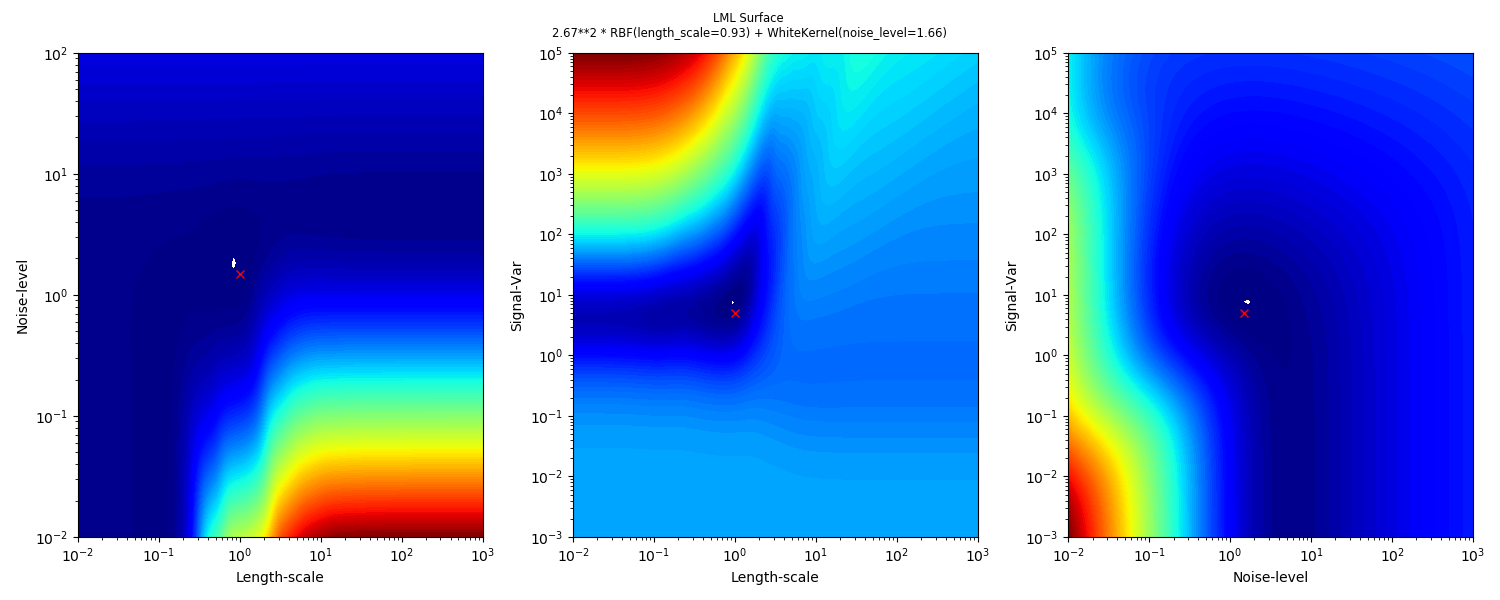
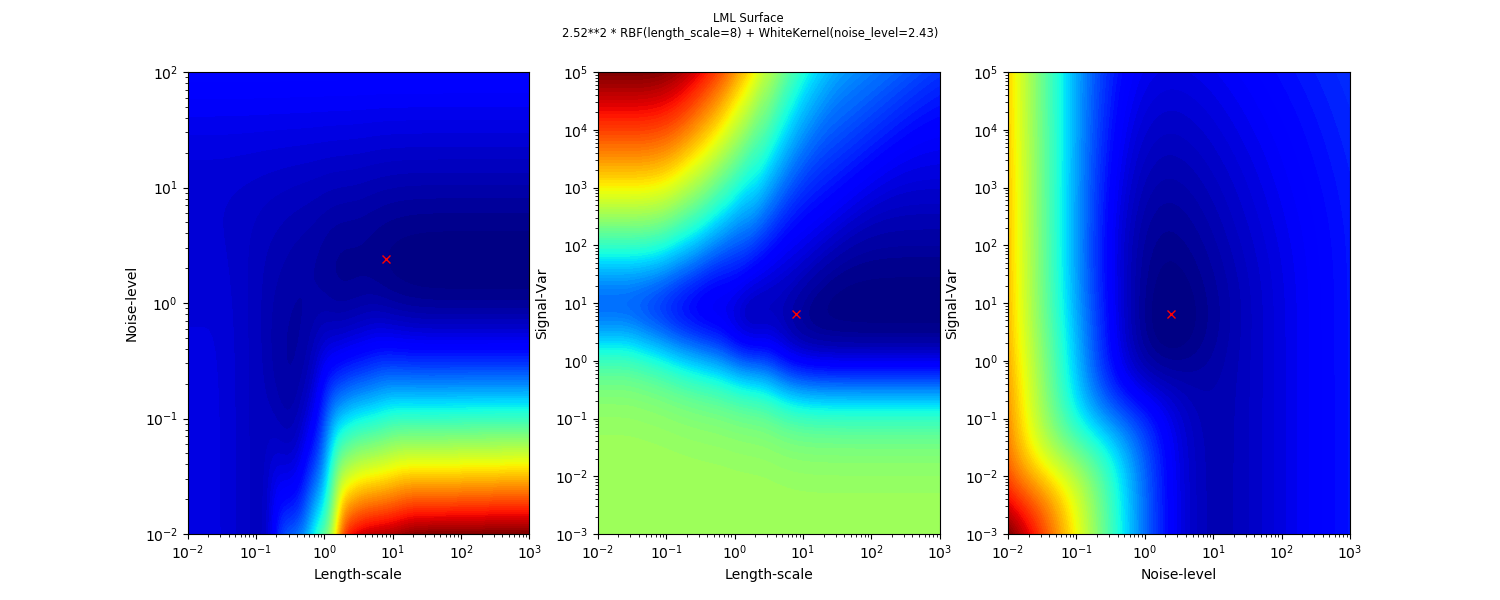
edits

diff --git a/GP/Hyperparameter Integration/gp_hyp_analysis.py b/GP/Hyperparameter Integration/gp_hyp_analysis.py
@@ -46,7 +46,7 @@ def generate_gp_training(X_all, f_all, n_train, noise_var, uniform):
     y = f + np.random.normal(0, scale=np.sqrt(noise_var), size=n_train)
     return X, y, X_star, f_star, train_index
 
-#---------------GP Framework----------------------------------------------
+#---------------------GP Framework---------------------------------------------
     
 def get_kernel(kernel_type, hyper_params):
     
@@ -145,7 +145,7 @@ def plot_noisy_data(X, y, X_star, f_star, title):
     plt.figure()
     plt.plot(X_star, f_star, "dodgerblue", lw=3, label="True f")
     plt.plot(X, y, 'ok', ms=3, alpha=0.5, label="Data")
-    plt.set_xlabel("X"); 
+    plt.set_xlabel("X") 
     plt.set_ylabel("The true f(x)") 
     plt.legend()
     plt.title(title, fontsize='x-small')
@@ -170,9 +170,9 @@ def plot_gp(X_star, f_star, X, y, post_mean, post_std, post_samples, title):
     
     plt.figure()
     if post_samples != []:
-          plt.plot(X_star, post_samples.T, color='orange', alpha=0.5)
+          plt.plot(X_star, post_samples.T, color='grey', alpha=0.2)
     plt.plot(X_star, f_star, "dodgerblue", lw=1.4, label="True f",alpha=0.7);
-    plt.plot(X, y, 'bx', ms=3, alpha=0.8, color='r');
+    plt.plot(X, y, 'ok', ms=3, alpha=0.5)
     plt.plot(X_star, post_mean, color='r', lw=2, label='Posterior mean')
     plt.fill_between(np.ravel(X_star), post_mean - 1.96*post_std, 
                      post_mean + 1.96*post_std, alpha=0.2, color='r',
@@ -284,8 +284,8 @@ if __name__ == "__main__":
     # Kernel Hyperparameters 
     
     sig_var_true = 5.0
-    lengthscale_true = 1.5
-    noise_var_true = 1.0
+    lengthscale_true = 1.0
+    noise_var_true = 0.5
     hyp = [sig_var_true, lengthscale_true, noise_var_true]
     cov = get_kernel('SE', [sig_var_true, lengthscale_true])
     hyp_string = get_kernel_hyp_string('SE', [sig_var_true, lengthscale_true, noise_var_true])
@@ -342,14 +342,13 @@ if __name__ == "__main__":
     post_samples = np.random.multivariate_normal(post_mean, post_cov, 10)
     rmse_ = rmse(post_mean, f_star)
     lpd_ = log_predictive_density(st.multivariate_normal.pdf(f_star, post_mean, post_cov, allow_singular=True))
-    title = 'GPR' + '\n' + str(gpr.kernel_) + '\n' + 'RMSE: ' + str(rmse_) + '\n' + 'LPD: ' + str(lpd_) 
-    plot_gp(X_star, f_star, X, y, post_mean, post_std, [], title)
-    #plot_kernel_matrix(post_cov,'')
-    
-    plot_lml_surface_3way(gpr, sig_var_true, lengthscale_true, noise_var_true)
-
+    title = 'GPR' + '\n' + str(gpr.kernel_) + '\n' + 'RMSE: ' + str(rmse_) + '\n' + 'LPD: ' + str(lpd_)     
     ml_deltas = np.round(np.exp(gpr.kernel_.theta), 3)
     ml_deltas_dict = {'lengthscale': ml_deltas[1], 'noise_var': ml_deltas[2], 'sig_var': ml_deltas[0]}
+    plot_lml_surface_3way(gpr, ml_deltas_dict['sig_var'], ml_deltas_dict['lengthscale'], ml_deltas_dict['noise_var'])
+
+    plot_gp(X_star, f_star, X, y, post_mean, post_std, [], title)
+
 
       #---------------------------------------------------------------------
           
@@ -397,12 +396,13 @@ plot_gp(X_star, f_star, X, y, post_pred_mean, post_pred_std, pred_samples,title)
   with pm.Model() as hmc_gp_model:
         
        # prior on lengthscale 
-       lengthscale = pm.Gamma('lengthscale', alpha=2, beta=1)
+       lengthscale = pm.Gamma('lengthscale', alpha=2, beta=2)
        
-       sig_var = pm.HalfCauchy('sig_var', beta=3)
+       #prior on signal variance
+       sig_var = pm.Gamma('sig_var', alpha=2, beta=2)
        
        #prior on noise variance
-       noise_var = pm.HalfCauchy('noise_var', beta=5)
+       noise_var = pm.Gamma('noise_var', alpha=2, beta=2)
        
        # Specify the covariance function.
        cov_func = sig_var*pm.gp.cov.ExpQuad(1, ls=lengthscale)
@@ -450,7 +450,7 @@ for j, k in [(0,0), (1,0), (2,0)]:
 prefix = '/home/vidhi/Desktop/Workspace/CoreML/GP/Hyperparameter Integration/'
 summary_df = pm.summary(trace)
 summary_df['Acc Rate'] = np.mean(trace.get_sampler_stats('mean_tree_accept'))
-np.round(summary_df,3).to_csv(prefix + 'trace_summary_se_unif_med_noise.csv')
+np.round(summary_df,3).to_csv(prefix + 'trace_summary_se_nunif_med_noise.csv')
 pm.autocorrplot(trace)
 
 # Compute posterior predictive mean and covariance - careful (not so obvious)
@@ -518,7 +518,7 @@ def get_post_mcmc_mean_cov(trace_df, X, X_star, varnames, n_train, test_size):
 varnames = ['sig_var', 'lengthscale','noise_var']
 theta = get_trace_means(trace_df, varnames=['sig_var', 'lengthscale','noise_var'])
 
-test_size=180
+test_size= len(X_all) - len(X)
 trace_df = get_combined_trace(trace)
 post_mean_trace, post_cov_trace = get_post_mcmc_mean_cov(trace_df, X, X_star, varnames, n_train, test_size)
 post_std_trace = np.sqrt(np.diag(post_cov_trace))
@@ -605,9 +605,59 @@ plt.fill_between(np.ravel(X_star), (post_mean_map - 2*post_std_map).reshape(test
                      (post_mean_map + 2*post_std_map).reshape(test_size,), alpha=0.2, color='g',
                      label=r'$2\sigma_{*}^{2 (MAP)}$')
 
+# Potential Priors
 
+plt.figure(figsize=(12,8))
 
+plt.suptitle('Potential Priors')
 
+x = np.linspace(0,10,1000)
 
+# Gamma
 
+plt.subplot(221)
+
+params = [(1,2), (2,2), (3,2)]
+
+for j in params:
+      print(j)
+      plt.plot(x, st.gamma.pdf(x, j[0], 0,j[1]), label=str(j))
+plt.legend()
+plt.title('Gamma')
+
+# Half Normal
+
+plt.subplot(222)
+
+params = [(0.1,1), (0.1,2), (0.1,4)]
+
+for j in params:
+      print(j)
+      plt.plot(x, st.halfnorm.pdf(x, j[0],j[1]), label=str(j))
+plt.legend()
+plt.title('Half-normal')
+
+# Half Cauchy
+
+plt.subplot(223)
+
+params = [(0.1,1), (0.1,2), (0.1,4)]
+
+for j in params:
+      print(j)
+      plt.plot(x, st.halfcauchy.pdf(x, j[0],j[1]), label=str(j))
+plt.legend()
+plt.title('Half-Cauchy')
+
+# Log-normal 
+
+plt.subplot(224)
+
+params = [(0,0.25), (0,0.5), (0,1)] #(1,0.5),(1,1), (1,2)]
+
+for j in params:
+      print(j)
+      plt.plot(x, st.lognorm.pdf(x, j[1],j[0], 1), label=str(j))
+plt.legend()
+plt.title('Log-Normal')
 
